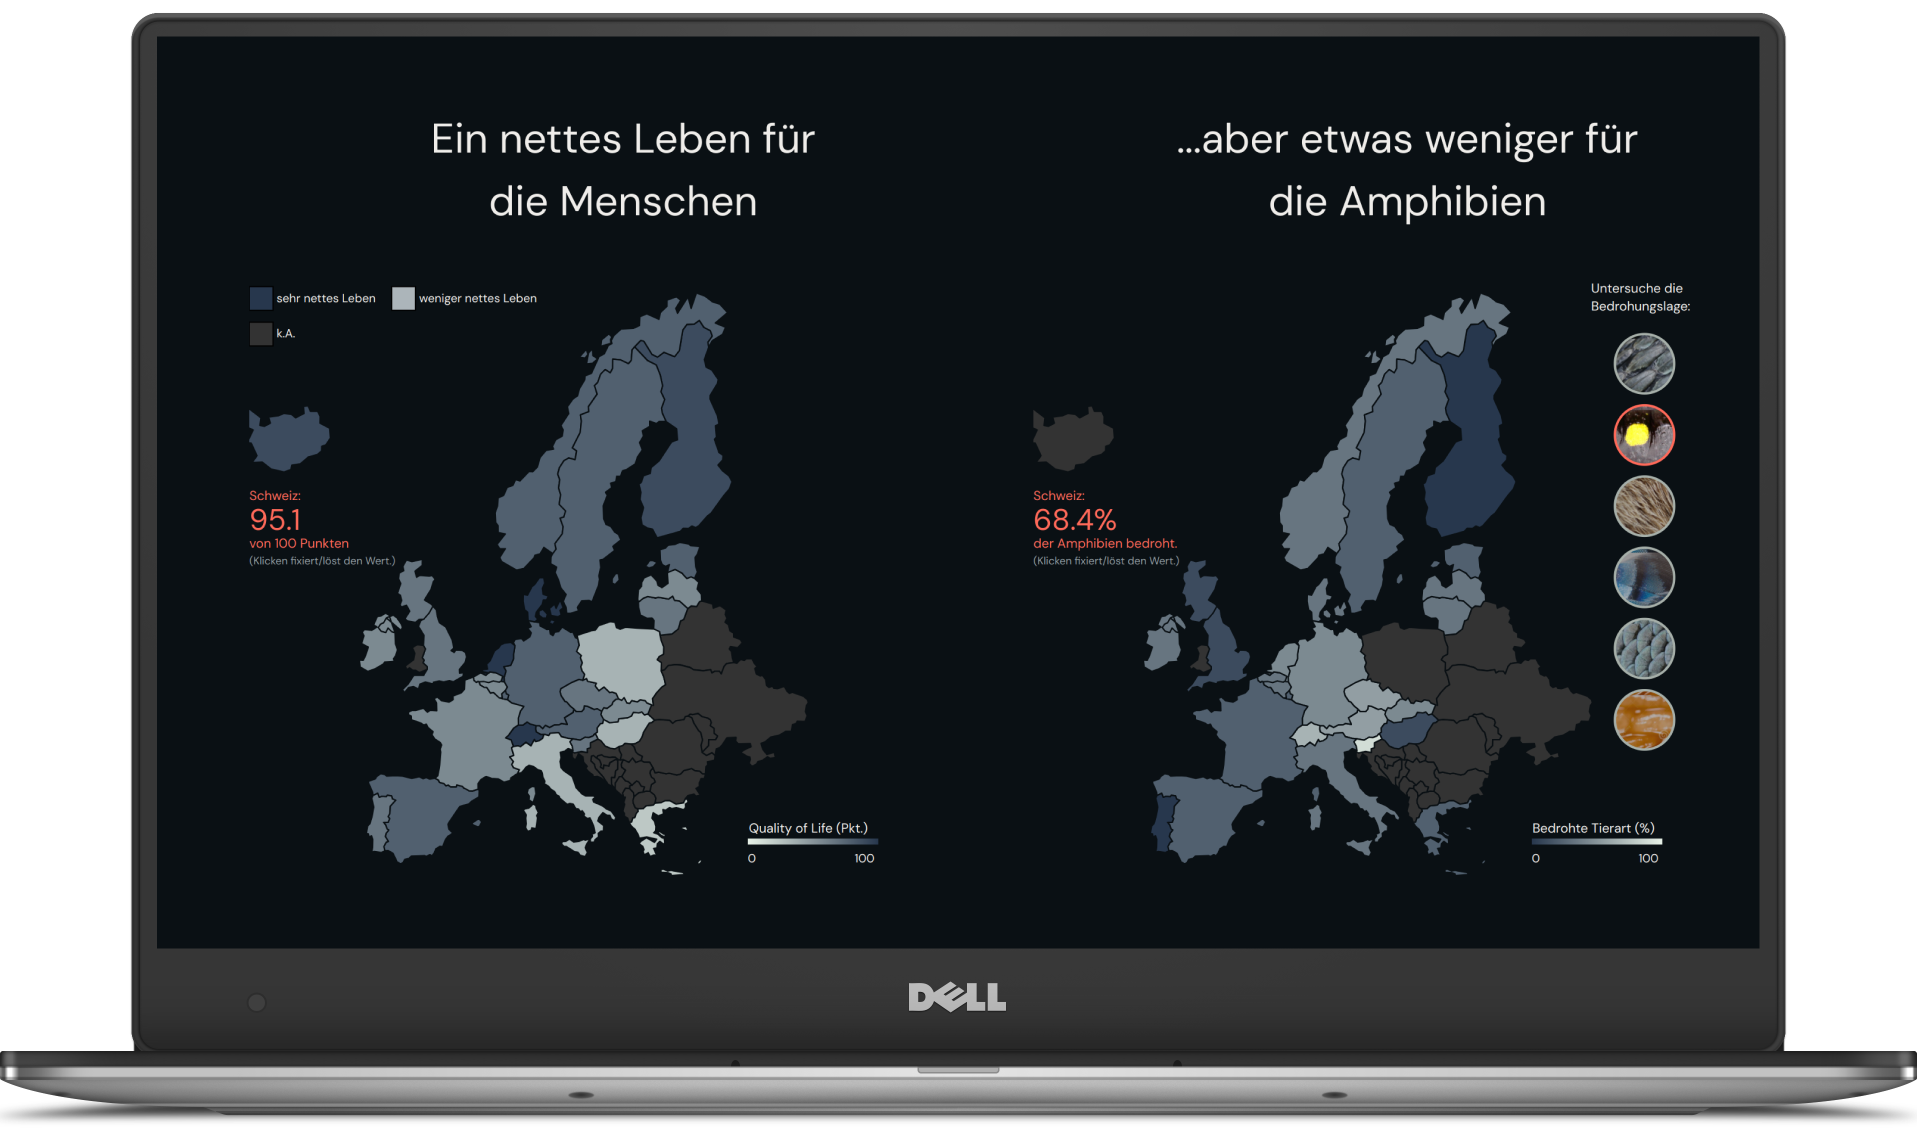
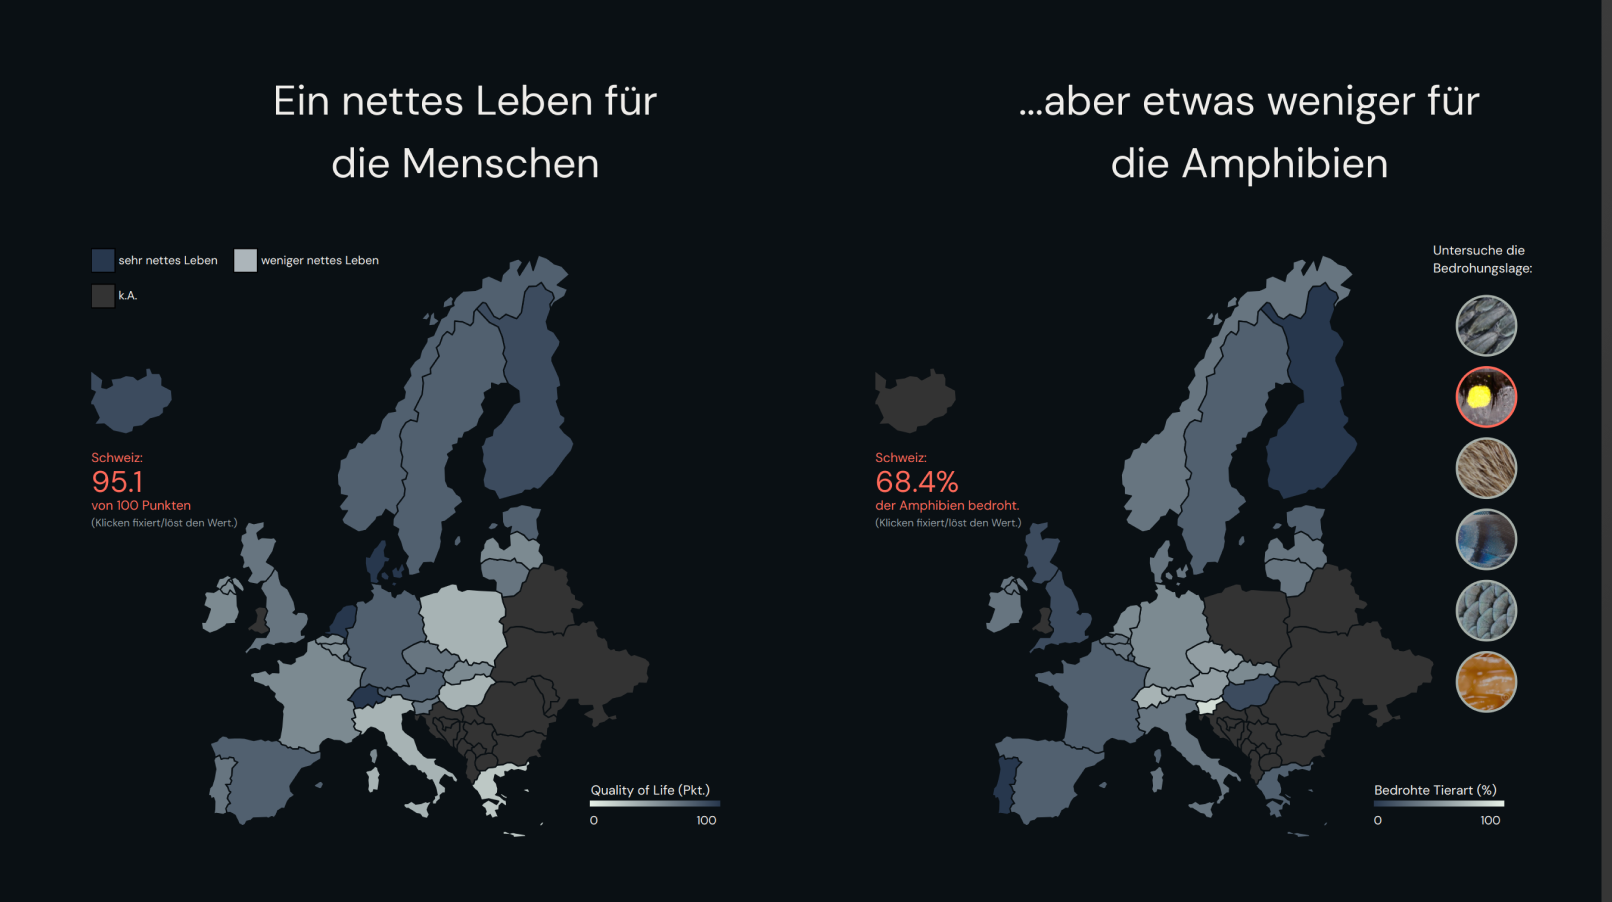
Crop biggest-beast thumbnail, fold pub type into tags, tidy layout
Crops the laptop bezel off the "Who is the biggest beast?" image the
same way as yappi. Removes the now-redundant dedicated Publications
& Blog Posts section from the Projects page (its content already
lives in the merged list) and instead surfaces the type (Blog Post /
Publication) as a tag chip alongside the date. Also narrows the Find
Me links back to half-width instead of the full section width.

diff --git a/app/components/ProjectsSection.vue b/app/components/ProjectsSection.vue
@@ -12,7 +12,7 @@ const allItems = computed(() => {
     title: pub.title,
     image: pub.image,
     description: pub.description ?? pub.venue,
-    tools: pub.date,
+    tools: `${pub.type === 'blogpost' ? 'Blog Post' : 'Publication'}, ${pub.date}`,
     categories: ['writing' as const, ...(pub.extraCategories ?? [])],
     link: pub.link,
   }))

diff --git a/app/components/FeaturedProjects.vue b/app/components/FeaturedProjects.vue
@@ -16,7 +16,7 @@ const items = computed(() => {
     title: pub.title,
     image: pub.image,
     description: pub.description ?? pub.venue,
-    tools: pub.date,
+    tools: `${pub.type === 'blogpost' ? 'Blog Post' : 'Publication'}, ${pub.date}`,
     categories: ['writing' as const, ...(pub.extraCategories ?? [])],
     link: pub.link,
   }))

diff --git a/app/pages/projects.vue b/app/pages/projects.vue
@@ -14,10 +14,5 @@ useSeoMeta({
     <div class="mt-14">
       <ProjectsSection />
     </div>
-
-    <div class="mt-16 border-t border-[var(--color-line)] pt-12">
-      <p class="eyebrow mb-6">Publications &amp; Blog Posts</p>
-      <PublicationsSection />
-    </div>
   </div>
 </template>

diff --git a/app/components/SocialLinks.vue b/app/components/SocialLinks.vue
@@ -10,7 +10,7 @@ const links = [
 </script>
 
 <template>
-  <ul class="flex flex-col gap-1">
+  <ul class="flex max-w-xl flex-col gap-1">
     <li v-for="link in links" :key="link.label">
       <a
         :href="link.href"
